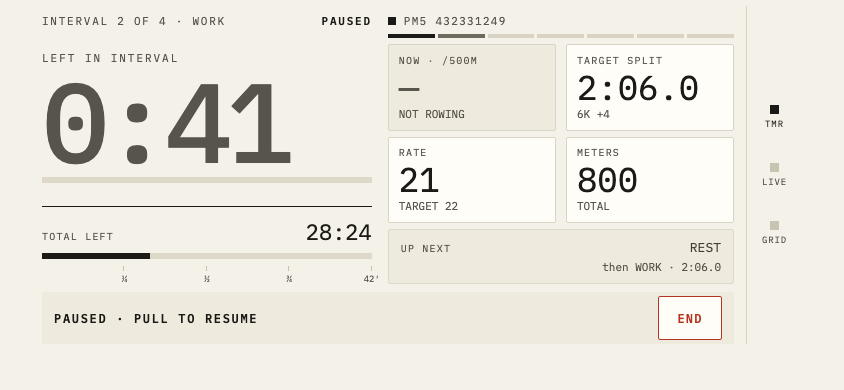
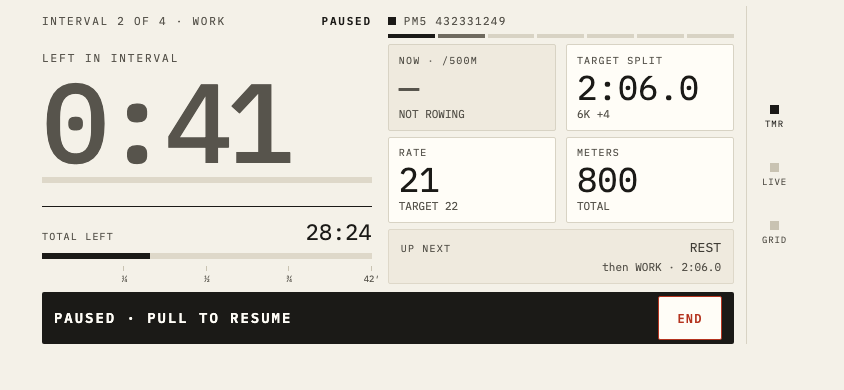
fix: only the flywheel is the rower, the pause shouts, and the log outlives the row
Hardware walk 2 (pause-worked.mp4): PAUSED confirmed firing on a real
program. Three follow-ups from the same walk:

The ready gate learns its second lesson: the PM5 runs the WORKOUT CLOCK
at 'row to begin' (TOTAL LEFT read 1:52 with 0 meters and rate 0), so
elapsed-or-distance skipped READY all over again. Only flywheel evidence
is a pull: banked distance or a registered stroke rate.

The paused band inverts: ink field, paper label, 14px. The operator
missed the sunken-grey version entirely; the geometry is unchanged.

The wire log survives the session: teardown stashes exportLog into
sessionStorage (ergomatic:last-monitor-log) on every exit path. The ended
frame navigates away on its first render, which killed the trace exactly
when the operator wanted to copy it.

Claude-Session: https://claude.ai/code/session_01UEXqdgDid4Qjd8D5uoRZ3H

Changed region(s): [[0.0308, 0.7385, 0.8934, 0.8923]]

diff --git a/app/src/monitor/useMonitorSession.test.ts b/app/src/monitor/useMonitorSession.test.ts
@@ -587,13 +587,13 @@ describe("useMonitorSession: the happy walk, on a real library workout", () => {
     ];
   }
 
-  it("a rowing-state frame with ZERO progress holds ready — the real PM5 reports a rowing-mapped state at 'row to begin' (the 2026-08-08 recording)", async () => {
-    // The regression the erg found: two seconds after arming, READY
-    // skipped its own "Show me the numbers" tap and the surface appeared
-    // with the clock at :00.0 and 0 meters — the machine's workout state
-    // ordinal maps to "rowing" before any pull. The first PULL is
-    // progress (elapsed or distance above zero), and only progress may
-    // open the record.
+  it("a rowing-state frame without FLYWHEEL evidence holds ready, even with the workout clock running — the real PM5 runs the clock at 'row to begin' (the two 2026-08-08 recordings)", async () => {
+    // The regression the erg found TWICE: first the state ordinal alone
+    // (a just-armed PM5 reports a rowing-mapped state before any pull),
+    // then elapsed (the PM5 runs the workout clock at row-to-begin:
+    // TOTAL LEFT read 1:52 with 0 meters and rate 0). Only flywheel
+    // evidence — banked distance or a registered stroke rate — is the
+    // pull, and only the pull may open the record.
     const { result, fake } = harness({
       program: TWO_INTERVALS,
       events: [
@@ -603,7 +603,14 @@ describe("useMonitorSession: the happy walk, on a real library workout", () => {
           spm: 0,
           currentSplit: 0,
         }),
-        status(200, { elapsedSeconds: 0.34, distanceMeters: 1.1 }),
+        // The clock runs; the flywheel has not moved. Still not a pull.
+        status(200, {
+          elapsedSeconds: 8,
+          distanceMeters: 0,
+          spm: 0,
+          currentSplit: 0,
+        }),
+        status(300, { elapsedSeconds: 8.4, distanceMeters: 1.1, spm: 14 }),
       ],
     });
     await connect(result);
@@ -611,12 +618,17 @@ describe("useMonitorSession: the happy walk, on a real library workout", () => {
     expect(result.current.phase).toBe("ready");
 
     tick(fake, 100);
-    // Rowing state, zero progress: still READY, still no record.
+    // Rowing state, no flywheel evidence: still READY, still no record.
     expect(result.current.phase).toBe("ready");
     expect(loadMonitorRun()).toBeNull();
 
     tick(fake, 100);
-    // The first stroke's progress is what flips it.
+    // The clock advancing on its own is STILL not a pull.
+    expect(result.current.phase).toBe("ready");
+    expect(loadMonitorRun()).toBeNull();
+
+    tick(fake, 100);
+    // Banked distance and a stroke rate: the pull, at last.
     expect(result.current.phase).toBe("live");
     expect(loadMonitorRun()).not.toBeNull();
   });
@@ -743,6 +755,30 @@ describe("useMonitorSession: ending", () => {
       completedAt: t0.toISOString(),
       terminated: true,
     });
+  });
+
+  it("the wire log survives the session: teardown stashes exportLog into sessionStorage (2026-08-08, walk 2: the ended frame navigated away and the trace died with it)", async () => {
+    sessionStorage.removeItem("ergomatic:last-monitor-log");
+    const { result, fake, unmount } = harness({
+      program: TWO_INTERVALS,
+      events: timeline,
+    });
+    await connect(result);
+    await programAndArm(result, fake, TWO_INTERVALS, TWO_IDENTITY);
+    tick(fake, 100);
+    expect(result.current.phase).toBe("live");
+
+    await act(async () => {
+      await result.current.endSession();
+    });
+    // Teardown is the unmount's; the ended frame itself has not stashed.
+    unmount();
+
+    const stashed = sessionStorage.getItem("ergomatic:last-monitor-log");
+    expect(stashed).not.toBeNull();
+    const entries = JSON.parse(stashed!) as { seq: number; kind: string }[];
+    expect(entries.length).toBeGreaterThan(0);
+    expect(entries.some((e) => e.kind === "write")).toBe(true);
   });
 
   it("End is idempotent against the terminal event its own terminate() provokes", async () => {

diff --git a/app/src/monitor/useMonitorSession.ts b/app/src/monitor/useMonitorSession.ts
@@ -539,15 +539,19 @@ export function useMonitorSession(
   const handleFrame = useCallback(
     (frame: MonitorFrame, driver: MonitorDriver): void => {
       const phase = stateRef.current.phase;
-      // FIRST ROWING FRAME WITH PROGRESS -> live (spec §2: every
-      // transition maps to a real event or frame field). The state
-      // ordinal alone is NOT the rower's first pull: the 2026-08-08
-      // hardware recording shows a just-armed PM5 sitting at "row to
-      // begin" already reporting a rowing-mapped workout state with the
-      // clock at 0.0 and 0 meters — on the ordinal alone, READY skipped
-      // its own "Show me the numbers" tap two seconds after arming. The
-      // machine's evidence of an actual first stroke is progress:
-      // elapsed or distance above zero. This is also where the run
+      // FIRST ROWING FRAME WITH FLYWHEEL EVIDENCE -> live (spec §2:
+      // every transition maps to a real event or frame field). Two
+      // hardware recordings narrowed this, 2026-08-08:
+      // - The state ordinal alone is NOT the rower's first pull: a
+      //   just-armed PM5 at "row to begin" already reports a
+      //   rowing-mapped workout state (recording 1 — READY skipped its
+      //   own "Show me the numbers" tap two seconds after arming).
+      // - `elapsedSeconds > 0` is not the pull either: the PM5 runs the
+      //   WORKOUT CLOCK at row-to-begin (recording 2 — TOTAL LEFT read
+      //   1:52 with 0 meters and rate 0, and the elapsed-or-distance
+      //   version of this gate skipped READY all over again).
+      // What only a real pull produces is FLYWHEEL evidence: banked
+      // distance or a registered stroke rate. This is also where the run
       // opens: the record exists once the rower is actually rowing,
       // never at `armed` — a programmed-then-abandoned workout leaves no
       // record behind, and `createMonitorRun`'s `clearRun()` (which
@@ -556,7 +560,7 @@ export function useMonitorSession(
       if (
         phase === "ready" &&
         frame.state === "rowing" &&
-        (frame.elapsedSeconds > 0 || frame.distanceMeters > 0)
+        (frame.distanceMeters > 0 || (frame.spm ?? 0) > 0)
       ) {
         const identity = identityRef.current;
         runRef.current = createMonitorRun(
@@ -719,6 +723,22 @@ export function useMonitorSession(
    *  path always takes the `driverRef.current` branch. */
   const teardown = useCallback(
     (alreadyTerminated = false, claimed: MonitorDriver | null = null): void => {
+      // THE LOG SURVIVES THE SESSION (2026-08-08, hardware walk 2): the
+      // ended hand-off frame navigates away on its first render, so the
+      // in-memory trace died exactly when the operator wanted to copy it.
+      // Teardown runs on EVERY exit path — ended, cancel, disconnect, a
+      // tab-bar escape — so one stash here covers them all.
+      // sessionStorage, not localStorage: diagnostics for the tab's own
+      // lifetime, not a record. Read it back from the console:
+      //   copy(sessionStorage.getItem("ergomatic:last-monitor-log"))
+      const log = logRef.current;
+      if (log !== null) {
+        try {
+          sessionStorage.setItem("ergomatic:last-monitor-log", log.exportLog());
+        } catch {
+          // Quota or privacy mode: diagnostics never break a teardown.
+        }
+      }
       unsubscribeRef.current?.();
       unsubscribeRef.current = null;
       const driver = claimed ?? driverRef.current;

diff --git a/app/src/index.css b/app/src/index.css
@@ -5435,13 +5435,18 @@ section:not(.news-pinned) .news-row:last-of-type {
   border-color: var(--ink-2);
 }
 
+/* INVERTED, deliberately (2026-08-08, hardware walk 2: the operator missed
+   the sunken-grey version entirely). Ink field, paper text: the loudest
+   signal the surface's own vocabulary allows without touching accent, and
+   the geometry is unchanged — same 52px, same slot, nothing above
+   shifts. */
 .connected-paused {
   flex: 1;
   height: 52px;
   display: flex;
   align-items: center;
   gap: 12px;
-  background: var(--surface-sunken);
+  background: var(--ink);
   border-radius: var(--radius);
   padding: 0 12px;
 }
@@ -5449,10 +5454,10 @@ section:not(.news-pinned) .news-row:last-of-type {
 .connected-paused-label {
   flex: 1;
   font-family: var(--font-mono);
-  font-size: 12px;
+  font-size: 14px;
   font-weight: 600;
   letter-spacing: 0.14em;
-  color: var(--ink);
+  color: var(--surface);
 }
 
 /* 64×44, accent-OUTLINED (handoff §4) — the L4 destructive vocabulary at

diff --git a/app/src/workout/ConnectedSurface.test.tsx b/app/src/workout/ConnectedSurface.test.tsx
@@ -634,6 +634,14 @@ describe("paused (handoff §4)", () => {
     expect(endButton![1]).toContain("height: 52px");
   });
 
+  it("index.css inverts the paused band: ink field, paper label (2026-08-08, the operator missed the grey one)", () => {
+    const css = readFileSync(indexCssPath(), "utf-8");
+    const paused = /\.connected-paused\s*\{([^}]*)\}/.exec(css);
+    const label = /\.connected-paused-label\s*\{([^}]*)\}/.exec(css);
+    expect(paused![1]).toContain("background: var(--ink)");
+    expect(label![1]).toContain("color: var(--surface)");
+  });
+
   it("the interval clock greys but holds its last value", () => {
     localStorage.setItem(LAST_PANE_KEY, "timer");
     renderSurface({
